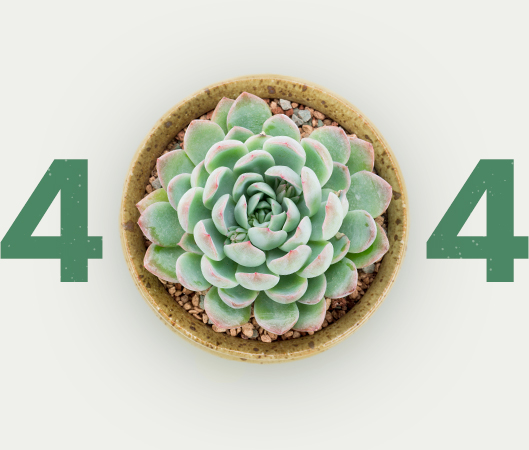
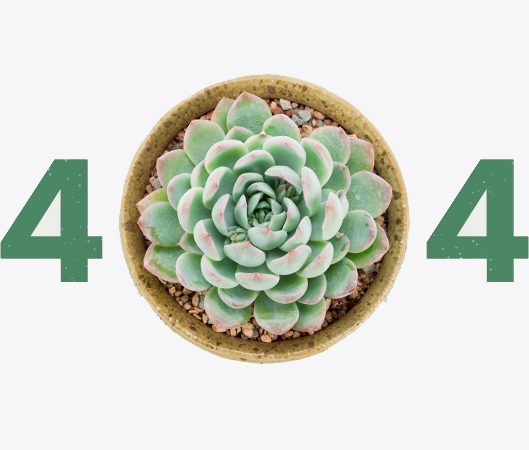
Login

Changed region(s): [[0.1512, 0.1244, 0.8469, 0.9022]]

diff --git a/application/assets/css/style.css b/application/assets/css/style.css
@@ -7,7 +7,7 @@
     padding: 0 var(--paddingNormal);
 }
 
-header, .noticias, .plantas, .call-to-action {
+header, .noticias, .plantas, .call-to-action, .error-page, .login {
     font-family: var(--Roboto);
 }
 
@@ -99,6 +99,32 @@ header, .noticias, .plantas, .call-to-action {
     padding: var(--paddingSemi);
 }
 
+.login {
+    height: 100vh;
+    font-family: var(--Roboto);
+}
+
+.login .left {
+    width: 55%;
+    background-image: url(../img/login.jpg);
+    background-size: cover;
+    background-position: center;
+}
+
+.login .right {
+    width: 45%;
+    background-color: #fff;
+}
+
+.login .logo img {
+    width: 50%;
+}
+
+.login .right h2 {
+    color: var(--blueTeal);
+    font-weight: var(--weightMedium);
+}
+
 
 
 @media screen and (max-width: 1200px) {
@@ -141,6 +167,20 @@ header, .noticias, .plantas, .call-to-action {
 
     .call-to-action .call-button {
         justify-content: center;
+    }
+
+    .login {
+        height: auto;
+    }
+
+    .login .left {
+        display: none;
+    }
+
+    .login .right {
+        width: 100%;
+        height: 95vh;
+        border: none;
     }
 
 }

diff --git a/application/assets/css/trejocode.css b/application/assets/css/trejocode.css
@@ -353,6 +353,11 @@ label {
     color: var(--white);
 }
 
+.btn-darkgreen {
+    background-color: var(--darkGreen);
+    color: var(--white);
+}
+
 .btn-login {
     background-color: var(--blueTeal);
     color: var(--white);

diff --git a/application/views/templates/notices-cards.php b/application/views/templates/notices-cards.php
@@ -76,7 +76,76 @@
                     </div> <!-- End Card -->
                 </div> <!-- End Row-responsive -->
             </div> <!-- End Noticias Contenedor -->
-            <div class="white-space-32"></div>
+            <div class="white-space-16"></div>
+            <div class="noticias-contanedor">
+
+                <div class="row-responsive">
+                    <div class="noticia-card">
+                        <div class="column">
+                            <div class="featured-img responsive-img">
+                                <img src="<?php echo SERVER_URL ?>application/assets/img/notice1.jpg" alt="">
+                            </div>
+                            <div class="container">
+                                <div class="column">
+                                    <div class="date">
+                                        <p>2 de Marzo, 2018</p>
+                                    </div>
+                                    <div class="title">
+                                        <h3>Científicos se pronuncian a favor de productos transgénicos</h3>
+                                    </div>
+                                    <div class="description">
+                                        <p class="text-justify">Lorem ipsum dolor sit amet, consectetur adipisicing elit, sed do eiusmod tempor incididunt ut labore et dolore magna...</p>
+                                    </div>
+                                    <a class="read-more" href="#">Leer Más</a>
+                                </div>
+                            </div>
+                        </div>
+                    </div> <!-- End Card -->
+                    <div class="noticia-card">
+                        <div class="column">
+                            <div class="featured-img responsive-img">
+                                <img src="<?php echo SERVER_URL ?>application/assets/img/notice2.jpg" alt="">
+                            </div>
+                            <div class="container">
+                                <div class="column">
+                                    <div class="date">
+                                        <p>2 de Marzo, 2018</p>
+                                    </div>
+                                    <div class="title">
+                                        <h3>Científicos se pronuncian a favor de productos transgénicos</h3>
+                                    </div>
+                                    <div class="description">
+                                        <p class="text-justify">Lorem ipsum dolor sit amet, consectetur adipisicing elit, sed do eiusmod tempor incididunt ut labore et dolore magna...</p>
+                                    </div>
+                                    <a class="read-more" href="#">Leer Más</a>
+                                </div>
+                            </div>
+                        </div>
+                    </div> <!-- End Card -->
+                    <div class="noticia-card">
+                        <div class="column">
+                            <div class="featured-img responsive-img">
+                                <img src="<?php echo SERVER_URL ?>application/assets/img/notice1.jpg" alt="">
+                            </div>
+                            <div class="container">
+                                <div class="column">
+                                    <div class="date">
+                                        <p>2 de Marzo, 2018</p>
+                                    </div>
+                                    <div class="title">
+                                        <h3>Científicos se pronuncian a favor de productos transgénicos</h3>
+                                    </div>
+                                    <div class="description">
+                                        <p class="text-justify">Lorem ipsum dolor sit amet, consectetur adipisicing elit, sed do eiusmod tempor incididunt ut labore et dolore magna...</p>
+                                    </div>
+                                    <a class="read-more" href="#">Leer Más</a>
+                                </div>
+                            </div>
+                        </div>
+                    </div> <!-- End Card -->
+                </div> <!-- End Row-responsive -->
+            </div> <!-- End Noticias Contenedor -->
+            <div class="white-space-16"></div>
         </div> <!-- End Main Column -->
     </div> <!-- End Main Container -->
 </div>

diff --git a/application/views/login.php b/application/views/login.php
@@ -2,34 +2,35 @@
 <div class="login flex">
     <div class="row-responsive">
         <div class="left"></div>
-            <div class="right">
-                <div class="justify align">
-                    <div class="container">
-                        <div class="column">
-                            <div class="logo">
-                                <div class="responsive-img justify">
-                                    <img src="<?php echo SERVER_URL?>application/assets/img/logo-aguila.png" alt="">
-                                </div>
+        <div class="right">
+            <div class="justify-center align-center">
+                <div class="container">
+                    <div class="column">
+                        <div class="white-space-32"></div>
+                        <div class="logo">
+                            <div class="responsive-img justify-center">
+                                <img src="<?php echo SERVER_URL ?>application/assets/img/logo-aguila.png" alt="Login Background">
                             </div>
-                            <h2 class="text-center">ADMINISTRADOR WEB</h2>
-                            <div class="white-space-25"></div>
-                            <div class="login-form justify">
-                                <div class="container">
-                                    <form class="" method="post">
-                                        <div class="column">
-                                            <label for="email">CORREO:</label>
-                                            <div class="white-space-8"></div>
-                                            <input class="input-text" type="email" name="email">
-                                            <div class="white-space-16"></div>
-                                            <label for="">CONTRASEÑA:</label>
-                                            <div class="white-space-8"></div>
-                                            <input class="input-text" type="password" name="password">
-                                            <div class="white-space-8"></div>
-                                            <input class="btn btn-green" type="submit" value="INGRESAR">
-                                            <div class="white-space-32"></div>
-                                        </div>
-                                    </form>
-                                </div>
+                        </div>
+                        <div class="white-space-32"></div>
+                        <h2 class="text-center">ADMINISTRADOR WEB</h2>
+                        <div class="white-space-32"></div>
+                        <div class="login-form justify-center">
+                            <div class="container">
+                                <form class="" method="post">
+                                    <div class="column">
+                                        <label for="email">CORREO:</label>
+                                        <div class="white-space-8"></div>
+                                        <input class="input-text" type="email" name="email">
+                                        <div class="white-space-16"></div>
+                                        <label for="">CONTRASEÑA:</label>
+                                        <div class="white-space-8"></div>
+                                        <input class="input-text" type="password" name="password">
+                                        <div class="white-space-32"></div>
+                                        <input class="btn btn-darkgreen" type="submit" value="INGRESAR">
+                                        <div class="white-space-32"></div>
+                                    </div>
+                                </form>
                             </div>
                         </div>
                     </div>
@@ -37,3 +38,4 @@
             </div>
         </div>
     </div>
+</div>

diff --git a/application/views/404.php b/application/views/404.php
@@ -1,8 +1,11 @@
-<div class="error-page flex justify">
+
+<div class="error-page flex justify-center">
     <div class="container">
-        <div class="column align justify">
-            <img class="responsive-img" src="<?php echo SERVER_URL ?>application/assets/img/404.jpg" alt="">
-            <h2>Lo sentimos, la página que solicitas no existe</h2>
+        <div class="column justify-center align-center">
+            <div class="responsive-img">
+                <img src="<?php echo SERVER_URL ?>application/assets/img/404.jpg" alt="404">
+            </div>
+            <h2 class="text-center">Lo sentimos, la página que solicitas no existe</h2>
         </div>
     </div>
 </div>

diff --git a/application/views/template.php b/application/views/template.php
@@ -32,15 +32,7 @@
 
     ?>
 
-    <script async src="<?php echo SERVER_URL ?>application/assets/js/main.js"></script>
-    <div id="fb-root"></div>
-        <script>(function(d, s, id) {
-          var js, fjs = d.getElementsByTagName(s)[0];
-          if (d.getElementById(id)) return;
-          js = d.createElement(s); js.id = id;
-          js.src = 'https://connect.facebook.net/es_LA/sdk.js#xfbml=1&version=v3.0&appId=867975343321980&autoLogAppEvents=1';
-          fjs.parentNode.insertBefore(js, fjs);
-        }(document, 'script', 'facebook-jssdk'));</script>
+    <script async src="<?php echo SERVER_URL ?>application/assets/js/main.js"></script>    
 
 </body>
 

diff --git a/application/models/viewModel.php b/application/models/viewModel.php
@@ -4,7 +4,7 @@
 
         protected function getViewModel( $view ) {
 
-            $validRoutes = ["inicio", "explorar", "noticias", "404", "noticia", "imprimir", "planta", "login", "admin"];
+            $validRoutes = ["inicio", "explorar", "noticias", "404", "noticia", "imprimir", "planta", "login", "admin", "nosotros"];
 
             if (in_array($view, $validRoutes)) {
 
